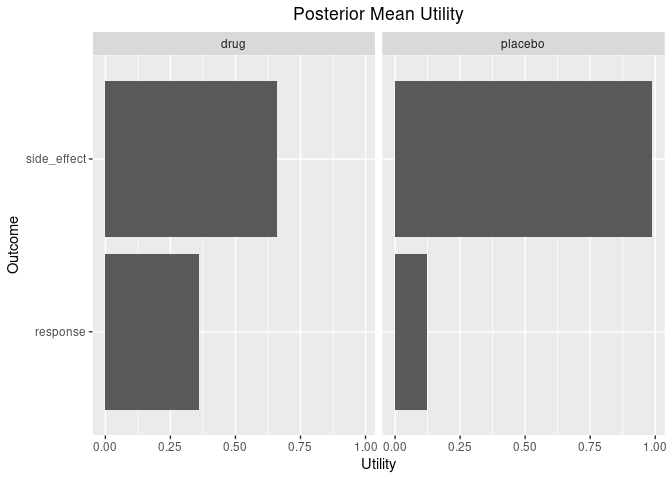
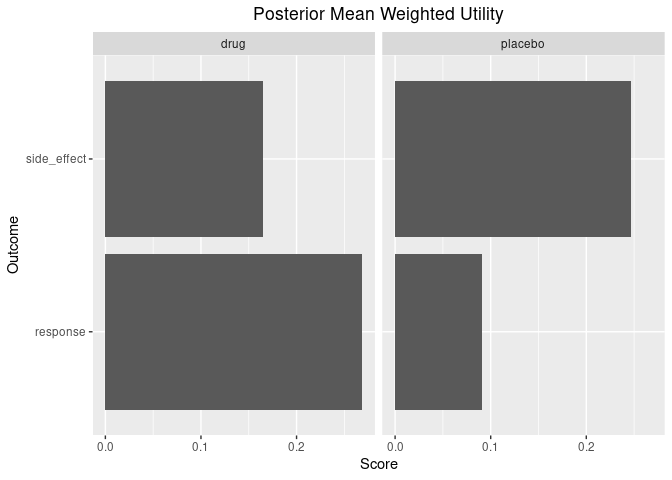
grammar, spelling

diff --git a/README.md b/README.md
@@ -11,13 +11,12 @@
 <!-- badges: end -->
 
 The goal of `brisk` is to provide general helper functions to perform
-quantitative *B*ayesian benefit-*risk* (brisk) analyses. The original
-intent of `brisk` is to provide functions which are completely separate
-from the Bayesian analyses. The functions in `brisk` are intended to
-take samples from Bayesian posteriors as inputs, allowing users to
-employ whatever custom analyses are appropriate. The posteriors are then
-combined with utility functions and weights to provide a quantitative
-benefit-risk analysis.
+quantitative *B*ayesian benefit-*risk* (brisk) analyses which are
+completely separate from the Bayesian analyses. The functions in `brisk`
+are intended to take samples from Bayesian posteriors as inputs,
+allowing users to employ whatever custom analyses are appropriate. The
+posteriors are then combined with utility functions and weights to
+provide a quantitative benefit-risk analysis.
 
 # Example
 
@@ -26,7 +25,7 @@ The utility function takes parameter values as inputs and outputs
 utility values. For a given set of parameter values for each benefit and
 risk, the benefit-risk score can be calculated by taking a weighted
 average of the utility functions. Incorporating uncertainty into the
-estimate through a Bayesian posterior, then yields a posterior
+estimate through a Bayesian posterior then yields a posterior
 distribution on the benefit-risk score.
 
 Benefits and risks are specified in `brisk` using the `benefit()` and
@@ -64,7 +63,7 @@ curve(risk_fun, xlab = "Side-Effect Rate", ylab = "Risk Utility Function")
 
 Since the side effects are mild, we will assign greater weight on
 ensuring that the drug works (75%) and a lower weight on the side
-effects (25%). Therefore, if an arm in the clinicial trial had a known
+effects (25%). Therefore, if an arm in the clinical trial had a known
 “true” response rate of 60% and a side-effect rate of 10%, the
 benefit-risk value would be
 
@@ -198,8 +197,8 @@ plot(out, reference = "placebo")
 
 <img src="man/figures/README-unnamed-chunk-11-2.png" width="100%" />
 
-Lastly, there are some useful functions for plotting the posterior mean
-utility of each benefit/risk for each group.
+Lastly, there are some useful functions for plotting the posterior
+weighted mean utility of each benefit/risk for each group.
 
 ``` r
 plot_utility(out)
@@ -223,9 +222,9 @@ plot_utility(out, stacked = TRUE)
 
 In addition to the `br()` function, `brisk` also has an `mcda()`
 function which performs in exactly the same way as `br()`, except that
-it imposes additional constraints which are typical in the MCDA analys
+it imposes additional constraints which are typical in the MCDA analyses
 (e.g. that weights sum to 1 and that observed outputs of the utility
-functions are contrained between 0 and 1).
+functions are constrained between 0 and 1).
 
 Also note that the `br()` and `mcda()` functions can process an
 arbitrary number of benefits, risks, and groups, allowing it to handle a
